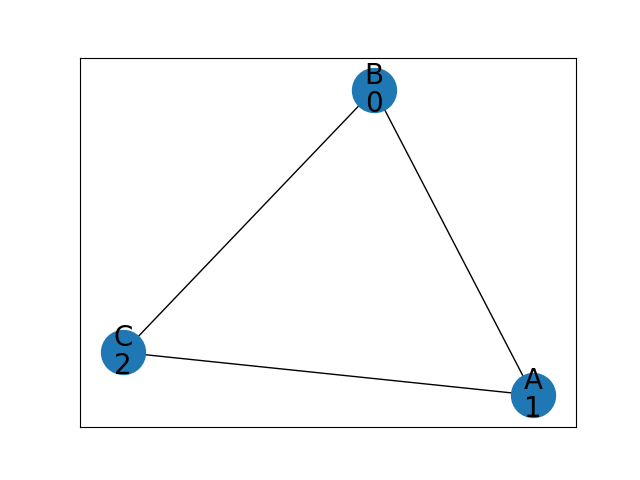
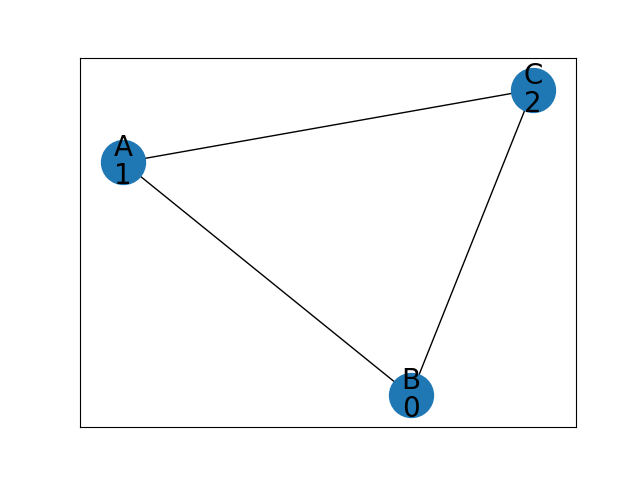
Newly added nodes are now red

diff --git a/tiag/main.py b/tiag/main.py
@@ -122,12 +122,18 @@ class Choice(Widget):
             links,isOk = parser2.assignmentParser(mainGraph, leftGraph(self.whichTransformation), self.assignement,main_app)
 
         if (isOk):
-            prevGraph,mainGraph = SPO.single_pushout(mainGraph, leftGraph(self.whichTransformation), rightGraph(self.whichTransformation), links)
+            prevGraph,mainGraph,new_nodes = SPO.single_pushout(mainGraph, leftGraph(self.whichTransformation), rightGraph(self.whichTransformation), links)
 
             plt.close()
             labelstable = nx.get_node_attributes(mainGraph, 'label')
             pos = nx.spring_layout(mainGraph)
-            nx.draw_networkx(mainGraph, pos, **options)
+            color_map = []
+            for node in mainGraph.nodes:
+                if node in new_nodes:
+                    color_map.append('red')
+                else:
+                    color_map.append("C0")
+            nx.draw_networkx(mainGraph, pos, node_color=color_map, **options)
             nx.draw_networkx_labels(mainGraph, pos, labels=labelstable, font_size=10, verticalalignment="bottom")
             plt.savefig("maingraph.png")
 

diff --git a/tiag/SPO.py b/tiag/SPO.py
@@ -16,6 +16,8 @@ def single_pushout(G, L, R, links):
     L_nodes = L.nodes
     R_nodes = R.nodes
 
+    new_nodes = []
+
     for l in links:
         links_map[l[1]] = l[0]
 
@@ -33,11 +35,12 @@ def single_pushout(G, L, R, links):
             while i in G1.nodes:
                 i = i + 1
 
+            new_nodes.append(i)
             G1.add_node(i, label=R.nodes[n]["label"])   # adding new nod with label from R
             links_map[n] = i
 
     for e in R_edges:
         G1.add_edge(links_map[e[0]], links_map[e[1]])
 
-    return G, G1
+    return G, G1, new_nodes
 # end def
